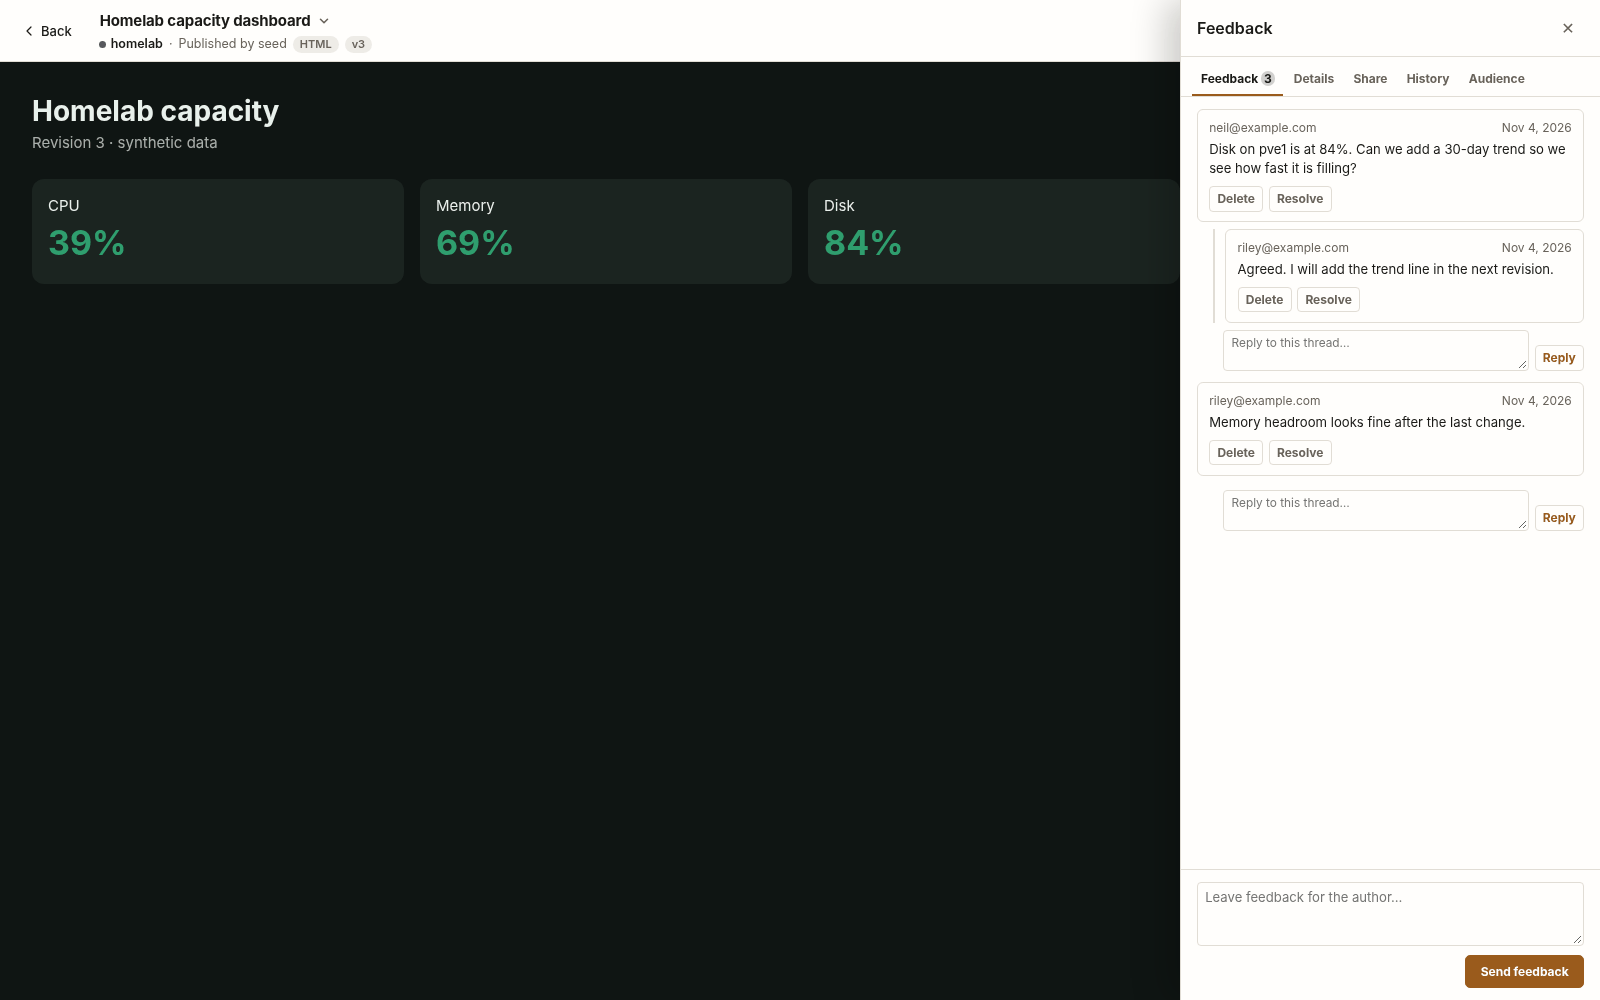
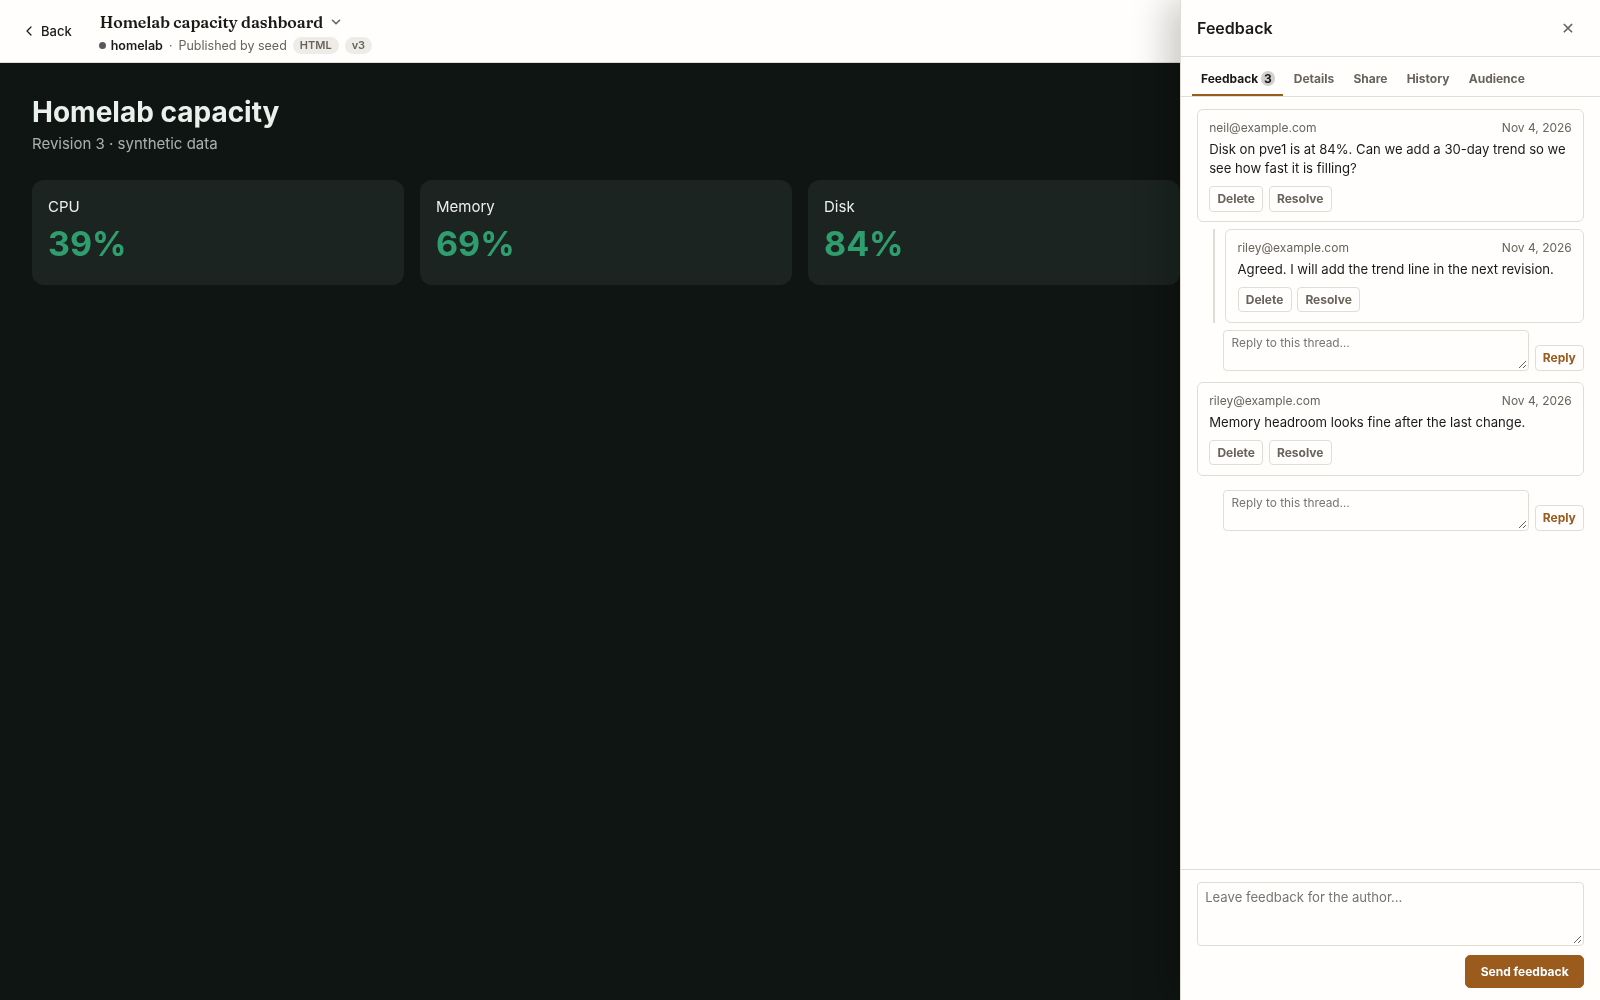
docs: describe both UI passes and refresh screenshots for the IA pass
Recapture docs/screenshots 01-14 from the merged UI (View menu, cards
that open on click, Fraunces titles) and update their captions. Extend
docs/design/ui-refresh-2026-11.md to cover the information
architecture pass and link its comparison images, and name the
--font-title token in the frontend maintenance guide.

diff --git a/docs/design/ui-refresh-2026-11.md b/docs/design/ui-refresh-2026-11.md
@@ -1,30 +1,46 @@
 # UI refresh, November 2026
 
 This refresh restyles the gallery, viewer bar, administration, dialogs, error pages, and phone
-layouts. It keeps every route, control, and data flow. Most of the change is CSS, plus copy edits
-in the templates and three asset scripts.
+layouts. It came in two passes. The first pass (#151) is a visual refresh. The second pass (#152,
+merged into #151) changes the gallery's information architecture. Routes, permissions, and data
+flow stay the same.
 
-## What changed
+## Visual refresh
 
-- One sans family for all interface text. Monospace remains only for IDs, keys, dates in tables,
-  and keyboard hints. Serif headings and monospace labels are gone.
-- Interface text is at least 12px. The old layers used 8 to 10px uppercase labels.
+- One sans family for interface text. Monospace remains only for IDs, keys, dates in tables, and
+  keyboard hints. Interface text is at least 12px; the old layers used 8 to 10px uppercase labels.
 - A warm paper-and-brass palette in light and dark, and the navy and brass mark from the favicon.
   The gallery now follows the operating-system dark setting when no theme is saved.
-- Brass marks the one primary action on each surface (Open, Create link, Generate key). Other
-  actions are quiet buttons with stroke icons. Text glyphs no longer stand in for icons.
-- Cards size to their own content. Nothing covers the preview at rest. The selection box and
+- Brass marks the primary action in each form and dialog (Create link, Generate key, Create folder,
+  Send feedback). Other actions are quiet buttons with stroke icons. Text glyphs no longer stand
+  in for icons.
+- Cards size to their own content, and nothing covers the preview at rest. The selection box and
   `/id` chip appear on hover or focus, and the selection box is always visible on touch.
 - Folder faces use a tint of the folder colour, so titles keep full contrast.
-- Plain page titles and copy: "Artifacts" and "Administration", "Folder display", "Artifact
-  owner", "Revocation timing".
+- Plain copy: "Artifacts", "Administration", "Artifact owner", "Revocation timing".
+
+## Information architecture pass
+
+- One View menu holds folder display, Grid or List, and preview size, so the gallery toolbar fits
+  on one row. Each folder display option has a one-line description.
+- The whole card opens the artifact through a stretched title link. The Open button is gone.
+  Favorite, Share, and More stay on the card; Download and Hide or Show moved into More.
+- Page, folder, and card titles use Fraunces, a self-hosted display face. Controls and body text
+  stay sans.
+- The toolbar shows New folder only when the shelf's New folder tile is off-screen.
+- Hidden artifacts carry a "Hidden" tag. Phones keep 44px targets and do not scroll sideways at
+  320px.
 
 ## Where the styles live
 
 Each stylesheet ends with a block headed `UI refresh (2026-11)`, followed by short lettered passes.
-Those blocks own the design tokens (`--font-ui`, `--font-mono`, the palette, `--radius`) and the
-surface treatment. The earlier layers above them still provide structure. Put new visual rules at
-the end of the file so they win the cascade.
+Those blocks own the design tokens (`--font-ui`, `--font-title`, `--font-mono`, the palette,
+`--radius`) and the surface treatment. The earlier layers above them still provide structure. Put
+new visual rules at the end of the file so they win the cascade.
+
+The display face is `assets/fonts/fraunces-v1.woff2` (SIL OFL 1.1, licence in
+`assets/licenses/fraunces-OFL.txt`), served from `/fonts/fraunces-v1.woff2` with immutable caching.
+Change the file name when the bytes change.
 
 ## Before and after
 
@@ -32,6 +48,8 @@ All captures use synthetic sample artifacts on a local server, Chrome 156 in hea
 1440 × 900 desktop viewport at device scale 1, and a 390 × 844 phone viewport at scale 2. The
 capture host maps the system UI font to Inter and monospace to JetBrains Mono, for both sets. The
 numbered boxes point at the changes listed under each image.
+
+### Visual refresh: original UI to #151
 
 ![Gallery](ui-refresh-2026-11/gallery.png)
 
@@ -46,3 +64,29 @@ numbered boxes point at the changes listed under each image.
 ![Publisher keys](ui-refresh-2026-11/keys.png)
 
 ![Viewer bar](ui-refresh-2026-11/viewer.png)
+
+### Information architecture pass: #151 to #152
+
+![Gallery](ui-ia-pass-2026-11/gallery.png)
+
+![View menu](ui-ia-pass-2026-11/view-menu.png)
+
+![Card menu](ui-ia-pass-2026-11/card-menu.png)
+
+![List layout](ui-ia-pass-2026-11/list.png)
+
+![Contact sheets](ui-ia-pass-2026-11/sheets.png)
+
+![Ribbons](ui-ia-pass-2026-11/ribbons.png)
+
+![Hidden artifact](ui-ia-pass-2026-11/hidden-card.png)
+
+![Keyboard focus](ui-ia-pass-2026-11/focus.png)
+
+![Phone gallery](ui-ia-pass-2026-11/m-gallery.png)
+
+![Phone View menu](ui-ia-pass-2026-11/m-view-menu.png)
+
+![Administration](ui-ia-pass-2026-11/settings.png)
+
+![Not found](ui-ia-pass-2026-11/not-found.png)

diff --git a/docs/screenshots/README.md b/docs/screenshots/README.md
@@ -1,18 +1,19 @@
 # Screenshot gallery
 
-Screenshots 01–14 show the November 2026 UI refresh (v1.29.4 plus the refresh) on an isolated
-local server at schema 40. The library holds twelve fictional artifacts in the `homelab`
-organization, four folders, one member account, a feedback thread, and three revisions of one
-artifact. The previews were rendered from those sample pages. No production data or credentials
-appear in these images. They use the shipped light theme. The hero image (00) is unchanged.
+Screenshots 01–14 show the November 2026 UI refresh, including its information architecture pass
+(v1.29.4 plus #151 and #152), on an isolated local server at schema 40. The library holds twelve
+fictional artifacts in the `homelab` organization, four folders, one member account, a feedback
+thread, and three revisions of one artifact. The previews were rendered from those sample pages. No
+production data or credentials appear in these images. They use the shipped light theme. The hero
+image (00) is unchanged.
 
-Captures use Chrome 156 in headless mode with reduced motion. Screenshots 01–08 use a
-1600 × 1000 viewport and 09–11 use 1440 × 1080, both at a device scale factor of 1. The folder
-dialogs are cropped to their rendered bounds. The mobile example uses a 390 × 844 viewport; it
-demonstrates browser viewport emulation, not a physical device test. The capture host maps the
-system UI font to Inter and monospace to JetBrains Mono. Captures wait for fonts and decoded
-previews. See [the refresh notes](../design/ui-refresh-2026-11.md) for before and after
-comparisons.
+Captures use Chrome 156 in headless mode with reduced motion. Screenshots 01–08 use a 1600 × 1000
+viewport and 09–11 use 1440 × 1080, both at a device scale factor of 1. The folder dialogs are
+cropped to their rendered bounds. The mobile example uses a 390 × 844 viewport; it demonstrates
+browser viewport emulation, not a physical device test. Titles use the self-hosted Fraunces face.
+The capture host maps the system UI font to Inter and monospace to JetBrains Mono. Captures wait
+for fonts and decoded previews. See [the refresh notes](../design/ui-refresh-2026-11.md) for before
+and after comparisons.
 
 | Shelf | Contact sheets |
 |---|---|
@@ -32,12 +33,12 @@ comparisons.
 | Administrator gallery | Card actions |
 |---|---|
 | [![Administrator gallery](01-gallery-admin-grid.png)](01-gallery-admin-grid.png) | [![Administrator card actions](02-gallery-admin-actions.png)](02-gallery-admin-actions.png) |
-| Search, status, organization and category filters, folder display, sorting, and layout controls share one toolbar. | Change category or folders in place. Deletion remains explicit and confirmed. |
+| Search, status, organization and category filters, sorting, and a View menu for folder display, layout, and preview size share one toolbar row. Click anywhere on a card to open it. | The More menu holds Download, Hide or Show, category, and folders. Deletion remains explicit and confirmed. |
 
 | List layout | Member gallery |
 |---|---|
 | [![List layout](03-gallery-admin-list.png)](03-gallery-admin-list.png) | [![Member gallery](04-gallery-member-grid.png)](04-gallery-member-grid.png) |
-| Compact rows keep previews, metadata, and labelled actions in one line. | Members see organization-scoped counts and filters, and ownership controls for their own uploads. |
+| Compact rows keep previews, metadata, and actions in one line. | Members see organization-scoped counts and filters, and ownership controls for their own uploads. |
 
 | Feedback | Version history |
 |---|---|

diff --git a/docs/frontend-maintenance.md b/docs/frontend-maintenance.md
@@ -50,7 +50,7 @@ All request-derived values in templates must be escaped. Keep CSRF/mutation prot
 - Administration: `templates/settings.html`, `src/render/settings.rs`, `assets/settings.js`, `assets/settings.css`.
 - Access states: `templates/not-found.html`, `templates/not-signed-in.html`, `templates/access-retry.html` and their matching `assets/not-found.css`, `assets/not-signed-in.css`, `assets/access-retry.css`.
 - Trusted MCP review surface: `assets/mcp-review-app.html`.
-- Design tokens and surface styling: the `UI refresh (2026-11)` block at the end of each stylesheet. It sets the fonts, palette, and radii. Add new visual rules after it. Use `--font-mono` only for identifiers and code. See [`docs/design/ui-refresh-2026-11.md`](design/ui-refresh-2026-11.md).
+- Design tokens and surface styling: the `UI refresh (2026-11)` block at the end of each stylesheet. It sets the fonts, palette, and radii. Add new visual rules after it. Use `--font-title` (Fraunces, `assets/fonts/fraunces-v1.woff2`, served from `/fonts/`) for page, folder, and card titles, and `--font-mono` only for identifiers and code. See [`docs/design/ui-refresh-2026-11.md`](design/ui-refresh-2026-11.md).
 - Anchored comment interactions are owned by PBI-086. Coordinate changes to marker, composer, inspector, and feedback projection behavior with that implementation rather than duplicating it in Gallery code.
 
 ## Focused verification
